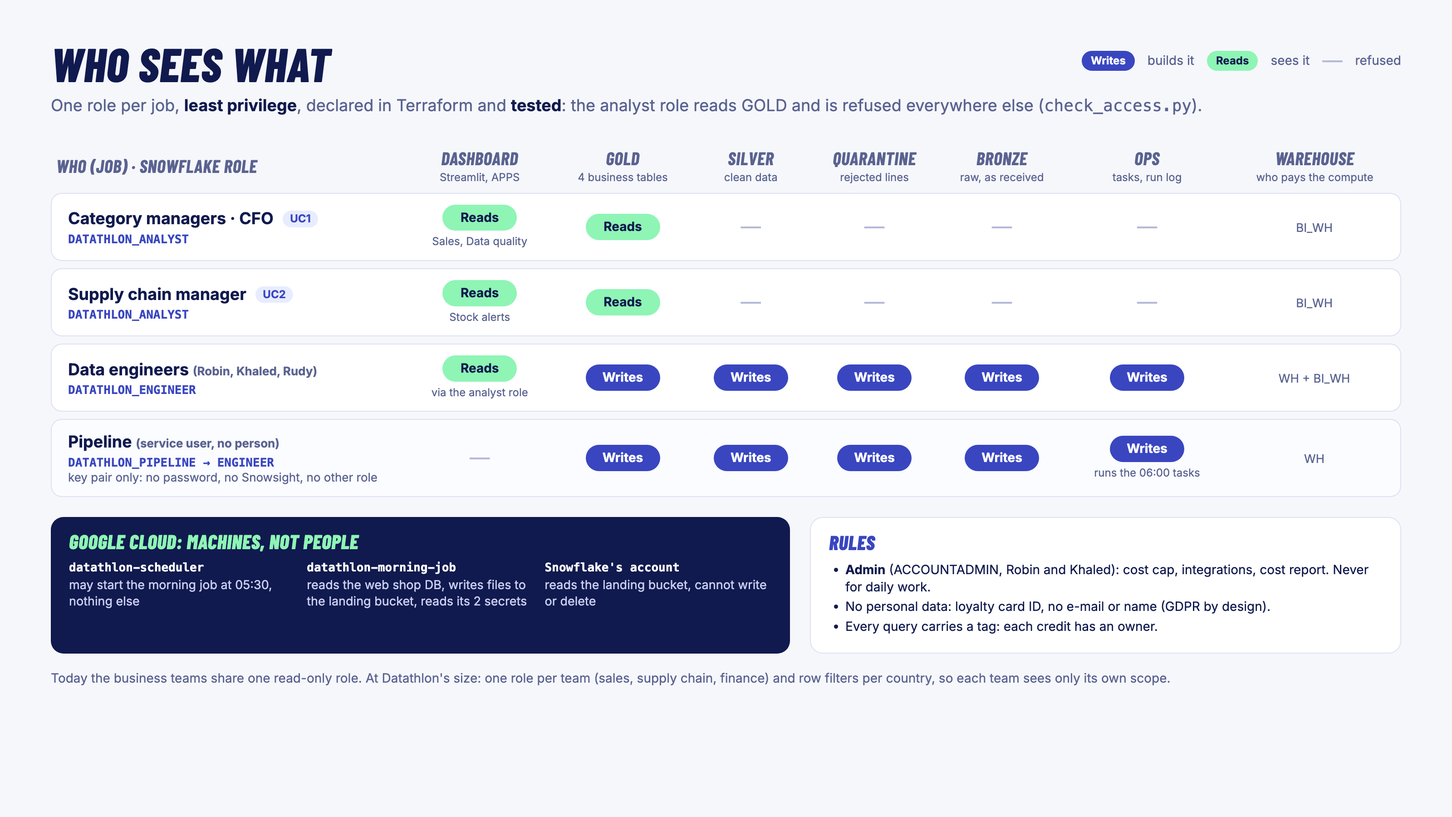
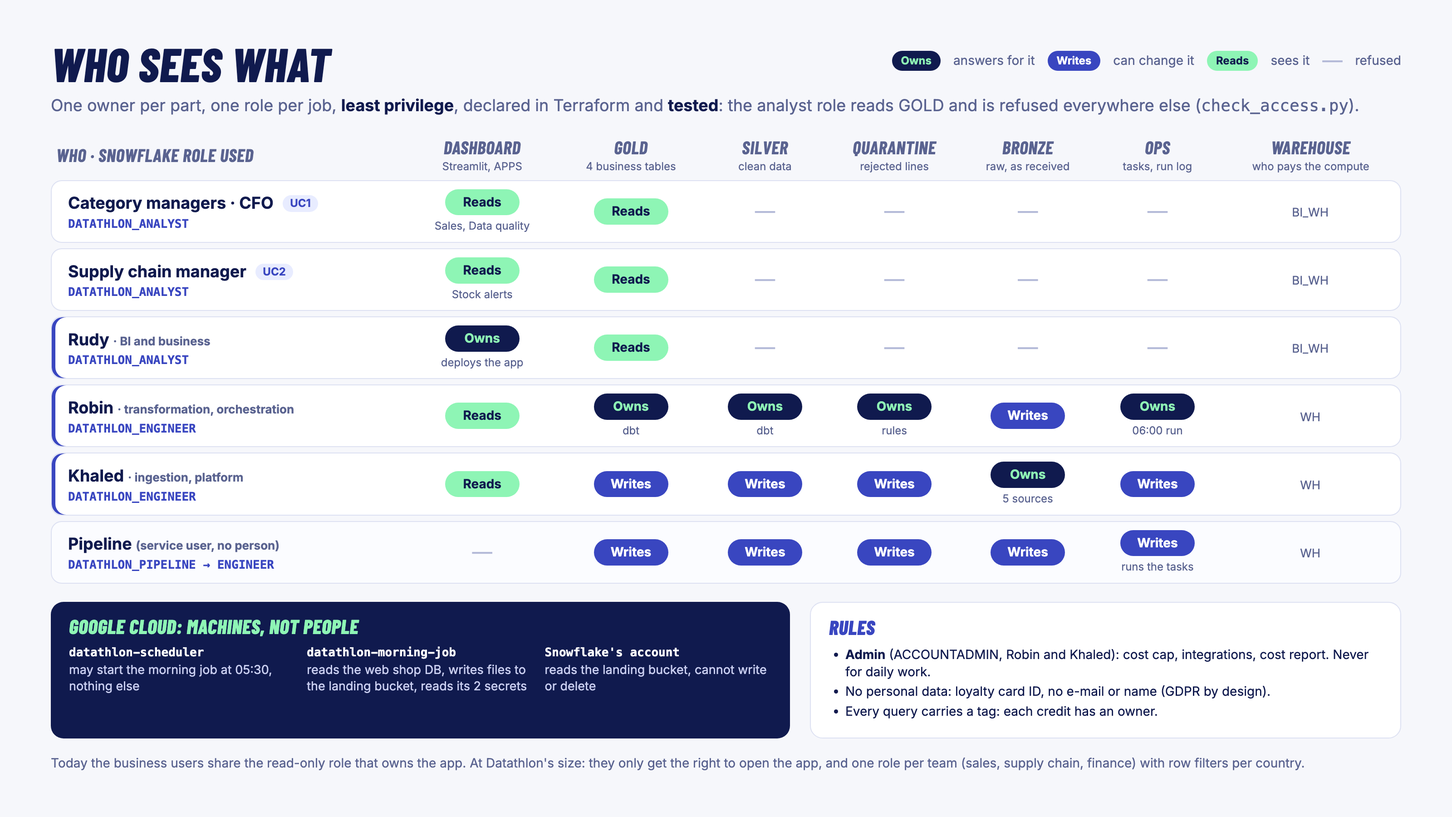
Decisions, ownership, use-case cleanup, owners on the access slide
docs/DECISIONS.md: why each tool and the alternative weighed, under the
D-0xx numbers the code quotes. docs/OWNERSHIP.md: one owner per part
(Khaled ingestion and platform, Robin transformation and orchestration,
Rudy BI and business), data owners and stewards. USE_CASES.md: internal
build notes removed. Access slide: one row per member with the part they
own; the dashboard is owned and deployed through the analyst role.

diff --git a/docs/slides/access_map.html b/docs/slides/access_map.html
@@ -11,13 +11,13 @@
   * { box-sizing: border-box; }
   body { margin: 0; width: 1600px; height: 900px; background: var(--bg); color: var(--navy); font: 16px/1.35 Inter, system-ui, sans-serif; padding: 44px 56px; }
   h1 { font: italic 800 52px/1 "Barlow Condensed", sans-serif; text-transform: uppercase; margin: 0; letter-spacing: .5px; }
-  .sub { color: var(--muted); font-size: 18px; margin: 8px 0 26px; }
+  .sub { color: var(--muted); font-size: 18px; margin: 8px 0 16px; }
   .sub b { color: var(--navy); }
-  table { width: 100%; border-collapse: separate; border-spacing: 0 8px; }
+  table { width: 100%; border-collapse: separate; border-spacing: 0 6px; }
   th { font: italic 700 20px/1.1 "Barlow Condensed", sans-serif; text-transform: uppercase; color: var(--muted); text-align: center; padding: 0 6px 2px; letter-spacing: .4px; }
   th small { display: block; font: 400 12px Inter, sans-serif; text-transform: none; letter-spacing: 0; margin-top: 3px; }
   th:first-child { text-align: left; }
-  td { background: #fff; padding: 12px 8px; text-align: center; border-top: 1px solid var(--line); border-bottom: 1px solid var(--line); }
+  td { background: #fff; padding: 9px 8px; text-align: center; border-top: 1px solid var(--line); border-bottom: 1px solid var(--line); }
   td:first-child { text-align: left; border-left: 1px solid var(--line); border-radius: 12px 0 0 12px; padding-left: 18px; width: 390px; }
   td:last-child { border-right: 1px solid var(--line); border-radius: 0 12px 12px 0; }
   .who { font-weight: 700; font-size: 18px; }
@@ -25,11 +25,13 @@
   .role { font: 600 13px ui-monospace, Menlo, monospace; color: var(--blue); margin-top: 3px; }
   .note { font-size: 13px; color: var(--muted); }
   .chip { display: inline-block; min-width: 82px; padding: 5px 12px; border-radius: 99px; font-weight: 700; font-size: 14px; }
+  .o { background: var(--navy); color: var(--mint); }
   .w { background: var(--blue); color: #fff; }
   .r { background: var(--mint); color: var(--navy); }
   .n { color: #B4BAD8; font-size: 22px; font-weight: 400; }
   .cell-note { display: block; font-size: 12px; color: var(--muted); margin-top: 4px; }
   tr.machine td { background: #FBFCFF; }
+  tr.team td:first-child { box-shadow: inset 4px 0 0 var(--blue); }
   .bottom { display: grid; grid-template-columns: 1.25fr 1fr; gap: 22px; margin-top: 14px; }
   .box { background: var(--navy); color: #EEF0FF; border-radius: 14px; padding: 16px 20px; }
   .box h2 { font: italic 800 22px/1 "Barlow Condensed", sans-serif; text-transform: uppercase; margin: 0 0 10px; color: var(--mint); letter-spacing: .4px; }
@@ -45,13 +47,13 @@
 </style>
 </head>
 <body>
-<div class="legend"><span class="chip w">Writes</span> builds it <span class="chip r">Reads</span> sees it <span class="n">—</span> refused</div>
+<div class="legend"><span class="chip o">Owns</span> answers for it <span class="chip w">Writes</span> can change it <span class="chip r">Reads</span> sees it <span class="n">—</span> refused</div>
 <h1>Who sees what</h1>
-<p class="sub">One role per job, <b>least privilege</b>, declared in Terraform and <b>tested</b>: the analyst role reads GOLD and is refused everywhere else (<code>check_access.py</code>).</p>
+<p class="sub">One owner per part, one role per job, <b>least privilege</b>, declared in Terraform and <b>tested</b>: the analyst role reads GOLD and is refused everywhere else (<code>check_access.py</code>).</p>
 
 <table>
   <tr>
-    <th>Who (job) · Snowflake role</th>
+    <th>Who · Snowflake role used</th>
     <th>Dashboard<small>Streamlit, APPS</small></th>
     <th>Gold<small>4 business tables</small></th>
     <th>Silver<small>clean data</small></th>
@@ -62,28 +64,32 @@
   </tr>
   <tr>
     <td><div class="who">Category managers · CFO <span class="uc">UC1</span></div><div class="role">DATATHLON_ANALYST</div></td>
-    <td><span class="chip r">Reads</span><span class="cell-note">Sales, Data quality</span></td>
-    <td><span class="chip r">Reads</span></td>
-    <td><span class="n">—</span></td><td><span class="n">—</span></td><td><span class="n">—</span></td><td><span class="n">—</span></td>
+    <td><span class="chip r">Reads</span><span class="cell-note">Sales, Data quality</span></td><td><span class="chip r">Reads</span></td><td><span class="n">—</span></td><td><span class="n">—</span></td><td><span class="n">—</span></td><td><span class="n">—</span></td>
     <td><span class="note">BI_WH</span></td>
   </tr>
   <tr>
     <td><div class="who">Supply chain manager <span class="uc">UC2</span></div><div class="role">DATATHLON_ANALYST</div></td>
-    <td><span class="chip r">Reads</span><span class="cell-note">Stock alerts</span></td>
-    <td><span class="chip r">Reads</span></td>
-    <td><span class="n">—</span></td><td><span class="n">—</span></td><td><span class="n">—</span></td><td><span class="n">—</span></td>
+    <td><span class="chip r">Reads</span><span class="cell-note">Stock alerts</span></td><td><span class="chip r">Reads</span></td><td><span class="n">—</span></td><td><span class="n">—</span></td><td><span class="n">—</span></td><td><span class="n">—</span></td>
     <td><span class="note">BI_WH</span></td>
   </tr>
-  <tr>
-    <td><div class="who">Data engineers <span class="note">(Robin, Khaled, Rudy)</span></div><div class="role">DATATHLON_ENGINEER</div></td>
-    <td><span class="chip r">Reads</span><span class="cell-note">via the analyst role</span></td>
-    <td><span class="chip w">Writes</span></td><td><span class="chip w">Writes</span></td><td><span class="chip w">Writes</span></td><td><span class="chip w">Writes</span></td><td><span class="chip w">Writes</span></td>
-    <td><span class="note">WH + BI_WH</span></td>
+  <tr class="team">
+    <td><div class="who">Rudy <span class="note">· BI and business</span></div><div class="role">DATATHLON_ANALYST</div></td>
+    <td><span class="chip o">Owns</span><span class="cell-note">deploys the app</span></td><td><span class="chip r">Reads</span></td><td><span class="n">—</span></td><td><span class="n">—</span></td><td><span class="n">—</span></td><td><span class="n">—</span></td>
+    <td><span class="note">BI_WH</span></td>
+  </tr>
+  <tr class="team">
+    <td><div class="who">Robin <span class="note">· transformation, orchestration</span></div><div class="role">DATATHLON_ENGINEER</div></td>
+    <td><span class="chip r">Reads</span></td><td><span class="chip o">Owns</span><span class="cell-note">dbt</span></td><td><span class="chip o">Owns</span><span class="cell-note">dbt</span></td><td><span class="chip o">Owns</span><span class="cell-note">rules</span></td><td><span class="chip w">Writes</span></td><td><span class="chip o">Owns</span><span class="cell-note">06:00 run</span></td>
+    <td><span class="note">WH</span></td>
+  </tr>
+  <tr class="team">
+    <td><div class="who">Khaled <span class="note">· ingestion, platform</span></div><div class="role">DATATHLON_ENGINEER</div></td>
+    <td><span class="chip r">Reads</span></td><td><span class="chip w">Writes</span></td><td><span class="chip w">Writes</span></td><td><span class="chip w">Writes</span></td><td><span class="chip o">Owns</span><span class="cell-note">5 sources</span></td><td><span class="chip w">Writes</span></td>
+    <td><span class="note">WH</span></td>
   </tr>
   <tr class="machine">
-    <td><div class="who">Pipeline <span class="note">(service user, no person)</span></div><div class="role">DATATHLON_PIPELINE → ENGINEER</div><div class="note">key pair only: no password, no Snowsight, no other role</div></td>
-    <td><span class="n">—</span></td>
-    <td><span class="chip w">Writes</span></td><td><span class="chip w">Writes</span></td><td><span class="chip w">Writes</span></td><td><span class="chip w">Writes</span></td><td><span class="chip w">Writes</span><span class="cell-note">runs the 06:00 tasks</span></td>
+    <td><div class="who">Pipeline <span class="note">(service user, no person)</span></div><div class="role">DATATHLON_PIPELINE → ENGINEER</div></td>
+    <td><span class="n">—</span></td><td><span class="chip w">Writes</span></td><td><span class="chip w">Writes</span></td><td><span class="chip w">Writes</span></td><td><span class="chip w">Writes</span></td><td><span class="chip w">Writes</span><span class="cell-note">runs the tasks</span></td>
     <td><span class="note">WH</span></td>
   </tr>
 </table>
@@ -106,6 +112,6 @@
     </ul>
   </div>
 </div>
-<p class="note" style="margin-top:18px;font-size:14px">Today the business teams share one read-only role. At Datathlon's size: one role per team (sales, supply chain, finance) and row filters per country, so each team sees only its own scope.</p>
+<p class="note" style="margin-top:18px;font-size:14px">Today the business users share the read-only role that owns the app. At Datathlon's size: they only get the right to open the app, and one role per team (sales, supply chain, finance) with row filters per country.</p>
 </body>
 </html>

diff --git a/docs/DECISIONS.md b/docs/DECISIONS.md
@@ -1,0 +1,116 @@
+# Decisions · why these tools, and what we did not choose
+
+Every important choice, with the reason and the credible alternative we weighed. The numbers (D-0xx) are the ones quoted in the code comments. Who owns each part: [OWNERSHIP.md](OWNERSHIP.md).
+
+## Platform
+
+### D-026 · One cloud: Google Cloud, with Snowflake in the same region
+- **Choice:** Google Cloud project `datathlon-513514` in **europe-west3 (Frankfurt)**, and the Snowflake account hosted on the same GCP region (`GCP_EUROPE_WEST3`).
+- **Why:** one provider to learn, secure and pay; the team already worked on GCP and had school credits. Same region for storage (GCS) and compute (Snowflake): no transfer cost, lower latency, data stays in the EU (GDPR).
+- **Alternatives:** AWS (S3 + Snowflake on AWS): equivalent technically, but a second account and a cloud the team knew less. BigQuery instead of Snowflake: fully serverless and native to GCP, but the course, the TDs and dbt Projects / Tasks / Streamlit inside the warehouse are Snowflake.
+
+### D-031 · Infrastructure as code: Terraform for both clouds
+- **Choice:** one `terraform/` folder creates the Snowflake side (database, 5 schemas, 2 warehouses, roles and grants, service user, storage integration, resource monitor) and the Google side (landing bucket, Cloud Run job, Cloud Scheduler, Cloud SQL, secrets, service accounts). Remote state in a private, versioned GCS bucket, with locking.
+- **Why:** one `apply` links the two clouds (Snowflake's Google account gets read access on the bucket without copy-paste); any manual change shows up as drift in `terraform plan` (tested: a warehouse changed by hand was put back).
+- **Alternatives:** clicking in the consoles (not reproducible, no review); SQL scripts for Snowflake only (would not cover Google Cloud). What Terraform cannot do is listed in [MANUAL_STEPS.md](MANUAL_STEPS.md).
+
+### D-027 · Access: one login per person, least privilege
+- **Choice:** each member has their own Snowflake user (password + MFA) and Google account; no shared login. Two project roles: `DATATHLON_ENGINEER` builds in the `DATATHLON` database, `DATATHLON_ANALYST` reads GOLD only. ACCOUNTADMIN only for what Snowflake allows nobody else to do (resource monitor, integrations).
+- **Why:** graded access with an allowed / denied test ([snowflake/setup/02_access_test.sql](../snowflake/setup/02_access_test.sql), [dashboard/check_access.py](../dashboard/check_access.py)). Found while testing: Snowflake users have every role active at once by default (`DEFAULT_SECONDARY_ROLES = ALL`), so the tests switch secondary roles off; the service user has none.
+- **Service user `DATATHLON_PIPELINE`:** `TYPE = SERVICE`, key pair only (a robot cannot answer an MFA prompt), only the engineer role. The pipeline does not depend on one person's account, and its queries are tagged so every action is traceable.
+- **Visual:** [slides/access_map.png](slides/access_map.png).
+
+### D-029 · Cost guards on both clouds
+- **Choice:** Snowflake resource monitor of 20 credits a month (notify at 50 / 80 %, suspend at 100 %, suspend immediately at 110 %) and a Google Cloud budget alert of €10 a month.
+- **Why both:** each cloud bills separately; a guard on one does not see the other.
+- **Alternatives:** a lower Snowflake cap (5 credits) could stop the pipeline during the live demo; automatic billing shutdown on GCP (Pub/Sub + function) is heavy for a trial. Measured costs and projection: [COSTS.md](COSTS.md).
+
+## Use cases and sources
+
+### D-013 · Two use cases: daily sales (UC1) and stock cover alert (UC2)
+- **Choice:** UC1 tells category managers and the CFO which categories and channels to push; UC2 tells the supply chain what to restock before it runs out. Details: [USE_CASES.md](USE_CASES.md).
+- **Why:** both answer a named pain point of the company (no single store + web view; stockouts ~4 % of sales lost), and UC2 reuses UC1's units sold, so one clean sales layer serves both.
+
+### D-021 · Five sources, two of them real public APIs
+- **Choice:** web shop orders (Postgres, OLTP), store tills (event files), store stock (daily CSV export), **weather** (Open-Meteo API, real) and **public and school holidays** (OpenHolidays API, real), plus the product and store catalogue as a dbt seed.
+- **Why:** each source explains sales or stock (holidays and weather drive sports sales) and each brings a different ingestion method. The three internal systems are simulated because a fictional company has no real ones; we say so.
+- **Alternatives:** data.gouv.fr for holidays (France only; OpenHolidays covers France, Belgium and Spain).
+
+### D-033 · The simulated data carries the patterns the dashboard must show
+- **Choice:** the generators follow the real holiday calendar the pipeline loads: school holidays +60 %, back to school +30 %, weekends, category mix (hiking, cycling and swimming up in holidays). Deterministic (fixed seed per day).
+- **Why:** a dashboard on random data shows nothing; with these rules, the effect is measurable in gold (hiking +62 % units per day in holidays) and checked by a test.
+
+### D-014 · The live incident comes from the store tills
+- **Choice:** the store channel of UC1 comes from a till feed that sends real-life defects (duplicates, missing IDs, unknown products, quantities like "two", prices in cents, dates in 2099, renamed fields).
+- **Why:** it gives a live, visual incident in a source that matters (store revenue), a third ingestion method (micro-batch files), and dbt's quarantine catches it. **Alternative:** one bad row in the stock file: simpler but a single batch, less visual. The stock file is used for the second incident instead ([INCIDENTS.md](INCIDENTS.md)).
+
+## Ingestion
+
+### D-032 · Web shop: Postgres, now on Cloud SQL
+- **Choice:** Postgres 16 with orders, order lines, products and stores; status paid / cancelled / refunded, test orders flagged. No personal data: customers are codes (GDPR by design).
+- **Why:** the web shop is a transactional database (OLTP): rows are inserted and updated all day, which is what an incremental load has to handle.
+
+### D-034 · Web orders: incremental load with a watermark and `MERGE`
+- **Choice:** each morning, read only rows changed since the last load (`updated_at` watermark, 5-minute look-back), in one consistent snapshot, then `MERGE` into BRONZE (insert new, update changed). Reconciliation at the end of every run (Postgres counts = BRONZE counts), logged in `BRONZE.LOAD_RUNS`.
+- **Why:** re-running never duplicates (tested: a second run merges 0 rows), refunds that change an old order are picked up.
+- **Alternatives:** full reload every day (simple but grows with history); CDC with Debezium / Openflow (catches deletes, but the shop never deletes orders: it changes their status). Named as a limit.
+
+### D-035 · Store tills: files → Cloud Storage → `COPY INTO`, raw kept as received
+- **Choice:** the tills drop NDJSON files in the landing bucket; Snowflake loads them with `COPY INTO` into a `VARIANT` column with the file name and line number.
+- **Why:** nothing is rejected or cleaned at load (the raw line is the evidence), and Snowflake's load history means a file is never loaded twice. Cleaning happens in dbt where it is tested.
+- **Alternatives:** Snowpipe (continuous auto-ingest): right for real streaming, but our decisions are daily (D-022) and it needs bucket notifications; Kafka: far beyond the volume.
+
+### D-036 · Weather and holidays: API pull → JSON files → `COPY INTO`
+- **Choice:** a job calls the two APIs each morning, saves the raw JSON in the bucket, Snowflake loads it.
+- **Why:** the raw answer is kept (can be replayed), and the load is the same pattern as the tills. A run that already has its files does not call the APIs again.
+
+### D-037 · Store stock: daily CSV + control file, all or nothing
+- **Choice:** one CSV per night count plus a control file (expected rows and units). `COPY INTO` with `ON_ERROR = ABORT_STATEMENT` and `NOT NULL` columns, then a two-way reconciliation (each control file = its snapshot, no snapshot without control).
+- **Why:** half a stock count is wrong stock: better no new data (gold keeps yesterday's) than a false alert. Found by testing: a short line was loaded with NULLs until the columns became `NOT NULL`.
+
+## Transformation
+
+### D-039 · dbt: bronze → silver + quarantine, with a seed
+- **Choice:** dbt models clean each source into SILVER. Till lines that break a rule go to `QUARANTINE.QUARANTINE_TILL_SALES` with their reason; duplicates too. The catalogue is a dbt **seed** read from the same files the generators use.
+- **Why:** every raw line ends up in exactly one place (silver or quarantine), and a test proves it on every build. Prices in cents are fixed against the catalogue, not with a "≥ 100" rule (Datathlon sells a €249 bike).
+- **Alternatives:** cleaning in Python before loading (untested, raw lost); Snowflake stored procedures (no lineage, no tests, no docs).
+
+### D-040 · dbt gold: one table per decision, a single source of truth
+- **Choice:** `gold_sales_daily` (UC1), `gold_stock_cover_daily` (UC2), `gold_data_quality_daily`, `gold_holidays`. Rules: business day = UTC date; gold shows complete days only.
+- **Why:** revenue is computed once, in gold, and tested against silver and against a day counted by hand; the dashboard only reads gold (pre-aggregated per day: cheap and fast).
+
+## Orchestration and monitoring
+
+### D-022 · Snowflake Tasks instead of Airflow
+- **Choice:** a task graph inside Snowflake at 06:00: load tills, stock and API files and check the web load in parallel, then `dbt build` inside Snowflake, then a finalizer that logs the run and e-mails on failure. 2 automatic retries.
+- **Why:** runs where the data is, nothing to host or keep running, fewer moving parts; dbt is skipped if a load fails, so gold is never built on bad data.
+- **Alternatives:** Airflow in Docker (TDs): a server to keep alive and secure for one daily graph; Cloud Composer (managed Airflow on GCP): an always-on environment, several hundred dollars a month for one daily DAG.
+
+### D-043 · Who starts what every morning
+- **Choice:** what lives on the company side (reading the web shop, the till, stock and API exports) runs in one Docker image; what can run where the data is (loading, checks, dbt) runs in Snowflake.
+- **Why:** Snowflake cannot reach the web shop database or run the source systems.
+
+### D-044 · The morning job runs on Google Cloud: Cloud Run job + Cloud Scheduler
+- **Choice:** Cloud Scheduler starts the Docker job on **Cloud Run** at 05:30 Paris; the web shop database is on **Cloud SQL**; secrets in Secret Manager; each machine has its own service account with only its rights.
+- **Why:** a pipeline must not depend on a laptop being on (a real failure on 4 Nov proved it). Cloud Run jobs bill per second of run (~30 s a day).
+- **Alternatives:** a VM with cron (a server to patch, paid all day); Neon free Postgres (outside Google Cloud, one more account); Postgres rebuilt inside the job (would make the incremental load meaningless).
+
+## Visualisation and governance
+
+### D-016 · Dashboard: Streamlit
+- **Choice:** one Streamlit app reading GOLD only, three tabs titled with the use-case questions.
+- **Why:** Python like the rest of the code, in the teacher's resource pack, runs inside Snowflake.
+- **Alternatives:** Power BI (Windows only, paid sharing); Looker Studio (made for BigQuery); Metabase or Superset (one more server to run).
+
+### D-045 · What the dashboard shows
+- Freshness ("data up to"), source tables, queries cached 10 minutes, a read-only role on its own warehouse. Details in [dashboard/README.md](../dashboard/README.md).
+
+### D-046 · The dashboard runs inside Snowflake
+- **Choice:** Streamlit in Snowflake, owned by the read-only analyst role, on the BI warehouse, with a 5-minute sleep timer.
+- **Why:** the data never leaves the governed platform and no key sits on a third-party host. **Alternative:** Streamlit Community Cloud: public by default, the Snowflake key stored in its secrets, data leaves Snowflake for every chart.
+
+### D-047 · Incidents rehearsed on the real platform
+- Two incidents (bad till data live, truncated stock file) run on the real pipeline, with their evidence: [INCIDENTS.md](INCIDENTS.md). They found a real time-zone bug, now fixed and tested.
+
+### D-041 · The architecture diagram shows only what is built
+- Every box on [architecture/](../architecture/) can be shown running; nothing decorative.

diff --git a/docs/USE_CASES.md b/docs/USE_CASES.md
@@ -1,9 +1,9 @@
 # Use cases
 
-**Status: Decided (D-013): UC1 + UC2.** The live incident demo comes from the till feed, which becomes the store-side input of UC1 (D-014, option A). We need 1 to 3. Each one is written the way the grading matrix asks (C2): the decision and its user, the metric with its grain, formula and exclusions, the refresh frequency and why, and the acceptance test.
-All numbers about the company are assumptions, to be stated as such on the slides.
+Two use cases (D-013). Each one gives the decision and its user, the metric with its grain, formula and exclusions, the refresh frequency and why, and the acceptance test. The store sales of UC1 come from the till feed, which also carries the live incident (D-014).
+All numbers about the company are assumptions.
 
-## The company in numbers (assumptions, C1)
+## The company in numbers (assumptions)
 
 | | Assumption |
 | --- | --- |
@@ -27,8 +27,6 @@ All numbers about the company are assumptions, to be stated as such on the slide
 | **Acceptance test** | Gold revenue = silver revenue (dbt reconciliation test) and matches the source totals extracted from Postgres for the same day |
 | **Sources** | Postgres "web orders" database (OLTP): orders, order lines, products. Till feed for the store channel (D-014). Weather and holidays as context (D-021) |
 | **Ingestion** | Batch first load + **incremental** watermark and `MERGE` (no duplicates on re-run). Postgres is the web shop's live database: orders arrive all day, but it pushes nothing and triggers nothing. Our job *pulls* the rows changed since the last run (the watermark), once a day before 06:00, then the Snowflake Tasks take over (D-022) |
-| **Reused from** | TD 2 (`incremental_orders.py`, `COPY INTO` scripts), TD 3.1/3.2 dbt medallion (`gold_daily_sales`, `gold_revenue_by_channel`, `gold_top_products`, `assert_gold_matches_silver`), Snowflake Tasks from the resource pack (D-022) |
-| **New work** | Rename to Datathlon, change the sample data from football merch to sports products and channels |
 
 ## UC2 · Stock cover alert
 
@@ -39,23 +37,19 @@ All numbers about the company are assumptions, to be stated as such on the slide
 | **Metric** | **Days of cover** = stock on hand ÷ average daily units sold over the last 7 days. **Grain:** store × product × day. Alert when below 3 days. **Exclusions:** products discontinued, stores closed that day |
 | **Frequency** | Daily, after the night inventory count |
 | **Acceptance test** | Stock on hand in gold = warehouse snapshot total; no product with sales but no stock row |
-| **Sources** | Warehouse system (OLTP): daily stock CSV export after the night count, with a control file; plus units sold from UC1 (tills + paid click & collect) |
+| **Sources** | Store stock system (OLTP): daily stock CSV export after the night count, with a control file; plus units sold from UC1 (tills + paid click & collect) |
 | **Ingestion** | Daily **batch** (`COPY INTO` of the snapshot file, reconciled against the control file on every run) |
-| **Reused from** | TD 2 Part A (export → stage → `COPY INTO`), dbt patterns from TD 3 |
-| **New work** | The stock dataset and the days-of-cover model (not in any TD) |
 
 ---
 
-## How UC1 + UC2 fit the rules
+## How the two use cases cover the requirements
 
-| Rule | Covered by (chosen: option A of D-014) | Covered by (option B, not chosen) |
-| --- | --- | --- |
-| At least 3 sources | Postgres web orders, till feed for store sales (UC1); stock snapshot (UC2); product catalogue seed | Postgres web orders (UC1), stock snapshot (UC2), product catalogue seed (a seed as the 3rd source is weak) |
-| Several ingestion methods | Incremental `MERGE` and micro-batch files (UC1), daily `COPY INTO` batch (UC2) | Incremental `MERGE` (UC1), daily `COPY INTO` batch (UC2) |
-| dbt with tests and a seed | Both; the seed is the product catalogue | Same |
-| Corrupted row shown live | Bad till row → quarantine (UC1, TD 3.3 code) | Bad stock row → quarantine (UC2, new code) |
-| Two incident scenarios | Bad till data (quarantine); broken stock file, load aborted with nothing half-loaded (D-037); a Snowflake Task failure and retry without double counting comes with step 10 (D-022) | Bad stock row; a task failure |
+| Requirement | Covered by |
+| --- | --- |
+| Several sources | Postgres web orders and store till feed (UC1), store stock export (UC2), weather and holidays APIs (context for both), product and store catalogue as a dbt seed |
+| Several ingestion methods | Incremental `MERGE` with a watermark (web orders), micro-batch files every few seconds (tills), daily batch with a control file (stock), API pull (weather, holidays) |
+| dbt with tests and a seed | Silver, quarantine and gold models, 62 tests, the catalogue seed |
+| A corrupted row shown live | Bad till lines → quarantine with their reason, live ([INCIDENTS.md](INCIDENTS.md)) |
+| Incidents without a snowball effect | Broken stock file: load refused, nothing half-loaded, dbt skipped, team e-mailed; a failed task retried twice without double counting |
 
-## Choice
-
-The group chose **UC1 + UC2** (D-013). Build order: UC1 first (most TD code), then UC2 on top of it, since days of cover needs UC1's units sold.
+UC1 is built first; UC2 sits on top of it, since days of cover needs UC1's units sold.

diff --git a/docs/OWNERSHIP.md b/docs/OWNERSHIP.md
@@ -1,0 +1,29 @@
+# Ownership · who owns which part of the pipeline
+
+Each member owns one part end to end: they built or reviewed it, they run it, they answer questions on it. Everyone can run the whole pipeline (see the README), but each part has one name.
+
+| | Khaled | Robin | Rudy |
+| --- | --- | --- | --- |
+| **Part** | **Ingestion and platform** | **Transformation and orchestration** | **BI and business** |
+| Pipeline stages | Sources → BRONZE | BRONZE → SILVER / QUARANTINE → GOLD, the daily run | GOLD → dashboard → decision |
+| Code | [terraform/](../terraform/), [sources/](../sources/), [ingestion/](../ingestion/), [snowflake/setup/](../snowflake/setup/), [snowflake/stages/](../snowflake/stages/) | [dbt/](../dbt/), [snowflake/tasks/](../snowflake/tasks/), [orchestration/](../orchestration/) | [dashboard/](../dashboard/), [USE_CASES.md](USE_CASES.md) |
+| What they answer on | Cloud choice, Terraform and drift, the 5 sources and their ingestion methods (incremental `MERGE`, `COPY INTO`, control file), roles and access, secrets | dbt models and the 62 tests, quarantine rules, single source of truth, Tasks vs Airflow, Cloud Run + Scheduler, retries and alerts, costs | The company and its pain points, the two use cases and their metrics, the dashboard, who sees what, how a manager acts on it |
+| Live demo | Incident 2: truncated stock file, load refused | Incident 1: bad till data live, quarantine | Dashboard: from the alert to the restock decision |
+| Decisions ([DECISIONS.md](DECISIONS.md)) | D-021, D-026, D-027, D-029, D-031 to D-037 | D-014, D-022, D-039, D-040, D-043, D-044, D-047 | D-013, D-016, D-033, D-045, D-046 |
+| Snowflake role used | `DATATHLON_ENGINEER` | `DATATHLON_ENGINEER` | `DATATHLON_ANALYST` (owns and deploys the dashboard app) |
+
+## Data owners and stewards
+
+The **owner** is the business person who decides what the data means and who may see it (company roles, assumptions). The **steward** is the team member who keeps it correct in the pipeline and is alerted when it breaks.
+
+| Data | Owner (business) | Steward (team) |
+| --- | --- | --- |
+| Web orders (Postgres) | E-commerce manager | Khaled |
+| Store till sales | Head of store operations | Khaled (load), Robin (quarantine rules) |
+| Store stock counts | Supply chain manager | Khaled |
+| Weather, holidays (public APIs) | — (public data) | Khaled |
+| Gold sales (UC1) | CFO | Robin |
+| Gold stock cover (UC2) | Supply chain manager | Robin |
+| Dashboard | Category managers, supply chain | Rudy |
+
+A failed morning run e-mails the whole team; the steward of the failed part fixes it (the e-mail names the failed task).

diff --git a/README.md b/README.md
@@ -37,7 +37,7 @@ Every day after that, nothing to type (step 10, D-043): at **05:30** Cloud Sched
 - **Did last night's run work?** [snowflake/tasks/02_task_history.sql](snowflake/tasks/02_task_history.sql): one row per run in `OPS.PIPELINE_RUNS`, every task and retry, every dbt run in `GOLD.DBT_RUN_RESULTS`. A failed run e-mails the team.
 - **Quality:** 62 dbt tests on every build (keys, accepted values, relationships, every raw till line in silver or quarantine exactly once, stock reconciled against its control file). Rejected till lines stay in `QUARANTINE.QUARANTINE_TILL_SALES` with their reason.
 
-Accounts, keys and sign-ins: [docs/SETUP.md](docs/SETUP.md). Switching everything off: [docs/CLEANUP.md](docs/CLEANUP.md). What happens when data goes wrong (2 incidents, rehearsed): [docs/INCIDENTS.md](docs/INCIDENTS.md). What it costs, measured and projected: [docs/COSTS.md](docs/COSTS.md).
+Accounts, keys and sign-ins: [docs/SETUP.md](docs/SETUP.md). Switching everything off: [docs/CLEANUP.md](docs/CLEANUP.md). What happens when data goes wrong (2 incidents, rehearsed): [docs/INCIDENTS.md](docs/INCIDENTS.md). What it costs, measured and projected: [docs/COSTS.md](docs/COSTS.md). Why each tool, and the alternatives: [docs/DECISIONS.md](docs/DECISIONS.md). Who owns which part: [docs/OWNERSHIP.md](docs/OWNERSHIP.md).
 
 ## Repository
 
